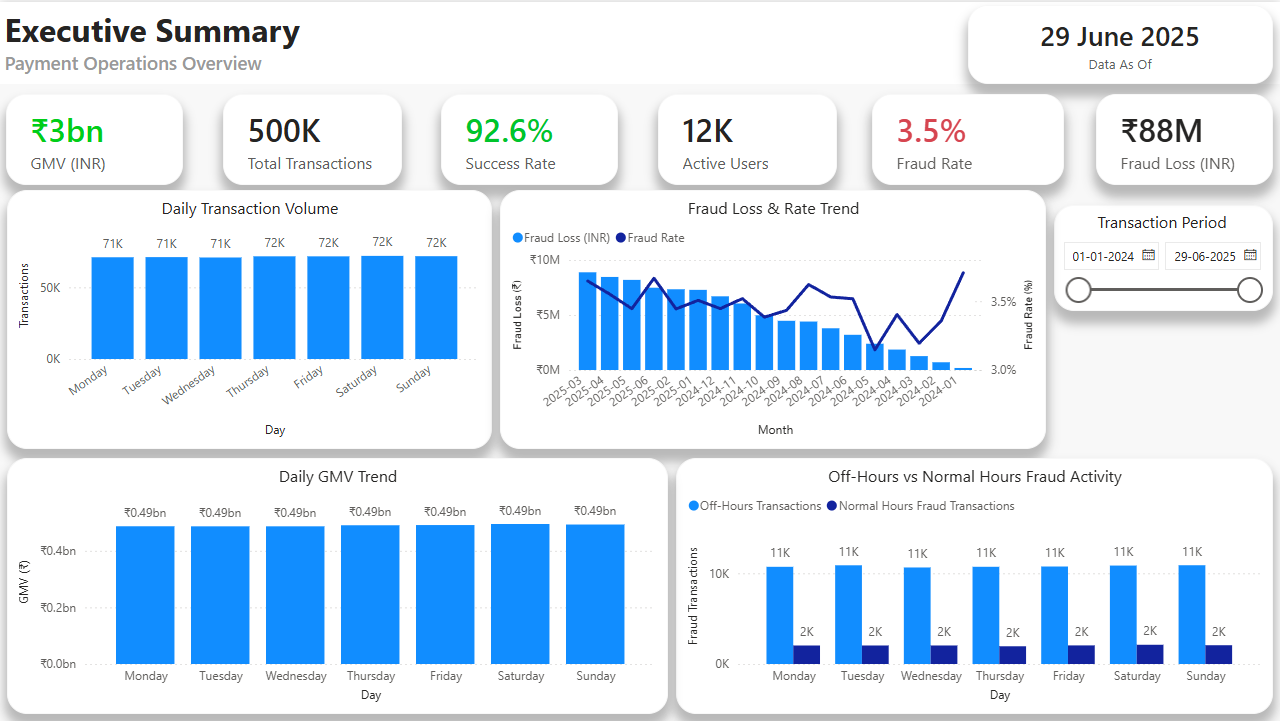
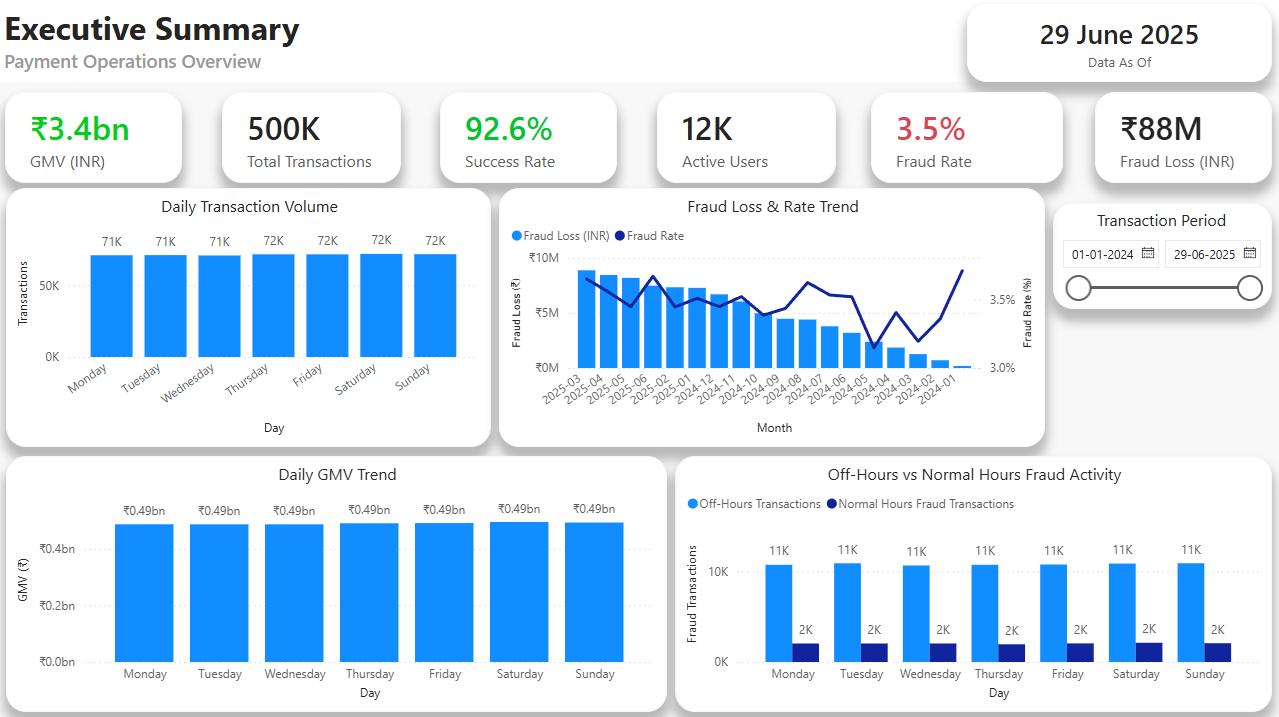
docs: align GMV to ₹3.4Bn and mark GitHub Actions CI complete in README

diff --git a/README.md b/README.md
@@ -54,7 +54,7 @@ Payment platforms bleed revenue when teams **cannot agree on the numbers** - fra
 
 | Pain today | What this platform delivers |
 |------------|----------------------------|
-| No single source of truth for GMV, success, or fraud loss | Locked KPIs on one star schema - Fraud ~**3.5%** · Success ~**92.6%** · Loss ~**₹88M** |
+| No single source of truth for GMV, success, or fraud loss | Locked KPIs on one star schema - GMV **₹3.4Bn** · Fraud ~**3.5%** · Success ~**92.6%** · Loss ~**₹88M** |
 | Fraud ops blind to hour and category concentration | Off-hours (1-5 AM) and Travel/Electronics risk on Page 03 + `hourly_fraud_trends` |
 | Merchant reviews biased by tiny sample sizes | `is_rate_reliable` guardrail before Top N on Page 04 |
 | No prioritised velocity worklist | `action_required` queue on Page 06 from `velocity_anomaly_detection` |
@@ -82,7 +82,7 @@ Power BI dashboard (Import mode from PostgreSQL).
 ### Dashboard Pages
 
 #### Page 01 - Executive Summary
-KPI cards: **~500K transactions** · **~92.6% success rate** · **~3.5% fraud rate** · **~₹88M fraud loss** · GMV validation vs `daily_overview_kpis`. Month-over-month GMV and volume trends.
+KPI cards: **~500K transactions** · **₹3.4Bn GMV** · **~92.6% success rate** · **~3.5% fraud rate** · **~₹88M fraud loss** · GMV validation vs `daily_overview_kpis`. Month-over-month GMV and volume trends.
 
 ![Page 01 Executive Summary](dashboard/screenshots/01_Executive_Summary.png)
 
@@ -120,7 +120,7 @@ Headline findings, prioritised actions (off-hours monitoring, merchant review, v
 
 ## Key Business Insights
 
-1. **~₹88M fraud loss at ~3.5% fraud rate** - fraud is a material drag on a **~₹3.67B GMV** base (~2.4% fraud-loss-to-GMV ratio). Executive KPIs reconcile between `fct_transactions` and `daily_overview_kpis` on Page 01.
+1. **~₹88M fraud loss at ~3.5% fraud rate** - fraud is a material drag on a **₹3.4Bn GMV** base (~2.6% fraud-loss-to-GMV ratio). Executive KPIs reconcile between `fct_transactions` and `daily_overview_kpis` on Page 01.
 
 2. **Off-hours fraud is structurally higher (1-5 AM)** - `is_odd_hour` and `hourly_fraud_trends` justify tightening overnight monitoring rules and staffing fraud ops for the early-morning window.
 
@@ -199,7 +199,7 @@ flowchart TB
 | Ingestion tests | pytest (`make pytest`) - raw CSV + `raw.*` tables |
 | Warehouse tests | dbt schema tests (`make test`) - staging → marts |
 | Orchestration | **Not wired yet** |
-| CI/CD | **Not wired yet** |
+| CI/CD | GitHub Actions - unit tests + E2E (`ingest` · `pytest` · `dbt`) on push/PR to `main` |
 | Analysis | Jupyter, pandas, plotly |
 
 ---
@@ -218,6 +218,7 @@ payment-transaction-analytics-platform/
 ├── notebooks/             # EDA notebooks (warehouse + fraud + segments)
 ├── tests/                 # pytest — ingestion / raw layer only
 ├── pytest.ini             # pytest config (testpaths, pythonpath)
+├── .github/workflows/     # GitHub Actions CI (unit + E2E pipeline)
 ├── docker-compose.yml     # PostgreSQL
 ├── Makefile              
 └── requirements.txt
@@ -374,7 +375,7 @@ This repo includes **platform documentation** under [`docs/`](docs/):
 | Phase 5 | Power BI dashboard - 7 pages, star schema, DAX measures | ✅ Complete |
 | Phase 6 | Analytics platform documentation | ✅ Complete |
 | Phase 7 | Workflow orchestration (Prefect / Airflow) + job scheduling | 🔲 Planned |
-| Phase 8 | CI/CD — GitHub Actions (`make pytest` + `make test` on push) | 🔲 Planned |
+| Phase 8 | CI/CD — GitHub Actions (`make pytest` + `make test` on push) | ✅ Complete |
 
 ---
 

diff --git a/docs/initial_observation.md b/docs/initial_observation.md
@@ -13,7 +13,7 @@
 
 ~500k synthetic payments (Jan 2024–Jun 2025) support fraud, merchant risk, velocity, and segment analytics.
 
-**Baselines:** Fraud Rate ~**3.5%** · Success Rate ~**92.6%** · Fraud Loss ~**₹88M**
+**Baselines:** GMV **₹3.4Bn** · Fraud Rate ~**3.5%** · Success Rate ~**92.6%** · Fraud Loss ~**₹88M**
 
 **Actions:** Monitor 1–5 AM · review Travel/Electronics merchants · action `action_required` on velocity queue · rank merchants only when `is_rate_reliable`.
 
@@ -102,7 +102,7 @@ flowchart LR
 
 1. Stationary success/failure rates over 18 months  
 2. Flat cohort retention—warehouse only, not trend chart  
-3. Headline KPIs locked: Fraud Rate ~3.5% · Success Rate ~92.6% · Fraud Loss ~₹88M  
+3. Headline KPIs locked: GMV ₹3.4Bn · Fraud Rate ~3.5% · Success Rate ~92.6% · Fraud Loss ~₹88M
 4. Rare `disputed` status  
 5. Payments-only—no marketing / clickstream feeds  
 

diff --git a/docs/kpi_definitions.md b/docs/kpi_definitions.md
@@ -14,7 +14,7 @@
 Single source of truth for **business metric definitions** consumed by Power BI, Excel, and **`reporting.*` SQL views**. This file must be used before making dashboard metrics or writing warehouse SQL - inconsistent definitions are the main cause of stakeholder distrust.
 
 
-**Baseline (locked):** Fraud Rate ~**3.5%** · Success Rate ~**92.6%** · Fraud Loss ~**₹88M**
+**Baseline (locked):** GMV **₹3.4Bn** · Fraud Rate ~**3.5%** · Success Rate ~**92.6%** · Fraud Loss ~**₹88M** · Fraud Loss Rate ~**2.6% of GMV**
 
 ---
 
@@ -66,7 +66,7 @@ Single source of truth for **business metric definitions** consumed by Power BI,
 | **Avg Fraud Risk Score** | Mean composite risk score | `AVERAGE(fraud_risk_score)` | `marts.fct_transactions` |
 | **Hourly Fraud Rate** | Pre-aggregated fraud rate by hour × category | `fraud_rate_pct / 100` | `marts.hourly_fraud_trends` |
 
-**Validated baselines:** Fraud Rate ~**3.5%** · Success Rate ~**92.6%** · Fraud Loss ~**₹88M** · Fraud Loss Rate ~**2.4% of GMV**
+**Validated baselines:** GMV **₹3.4Bn** · Fraud Rate ~**3.5%** · Success Rate ~**92.6%** · Fraud Loss ~**₹88M** · Fraud Loss Rate ~**2.6% of GMV**
 
 ---
 

diff --git a/docs/problem_statement.md b/docs/problem_statement.md
@@ -13,7 +13,7 @@
 
 Fraud and risk detected late-or measured inconsistently-cost payments platforms revenue and trust. This project delivers a **governed PostgreSQL + dbt + Power BI stack** on ~500k synthetic Indian payments so every team shares **one KPI set**.
 
-**Baselines:** Fraud Rate ~**3.5%** · Success Rate ~**92.6%** · Fraud Loss ~**₹88M**
+**Baselines:** GMV **₹3.4Bn** · Fraud Rate ~**3.5%** · Success Rate ~**92.6%** · Fraud Loss ~**₹88M**
 
 ---
 
@@ -141,7 +141,7 @@ Generator: [`generator/transaction_generator.py`](../generator/transaction_gener
 |-----------|--------|--------|
 | Pipeline runs end-to-end | `make pipeline` without errors | Met |
 | dbt tests | 81/81 PASS | Met |
-| Headline KPI baselines | Fraud Rate ~3.5% · Success Rate ~92.6% · Fraud Loss ~₹88M | Met |
+| Headline KPI baselines | GMV ₹3.4Bn · Fraud Rate ~3.5% · Success Rate ~92.6% · Fraud Loss ~₹88M | Met |
 | Dashboard pages | 7 pages with screenshots | Met |
 | Metric documentation | `kpi_definitions.md` + dictionaries | Met |
 | Known limitations documented | Page 07 + `initial_observation.md` | Met |

diff --git a/docs/README.md b/docs/README.md
@@ -108,7 +108,7 @@ make refresh     # reset + ingest + pipeline
 
 - Raw CSVs in `data/raw/` are **gitignored** - run `make ingest` after clone.
 - `.pbix` files are **gitignored** - portfolio preview via screenshots only.
-- **Locked headline KPIs:** Fraud Rate ~**3.5%** · Success Rate ~**92.6%** · Fraud Loss ~**₹88M** (generator calibrated; do not change without `make refresh` + re-validation).
+- **Locked headline KPIs:** GMV **₹3.4Bn** · Fraud Rate ~**3.5%** · Success Rate ~**92.6%** · Fraud Loss ~**₹88M** (generator calibrated; do not change without `make refresh` + re-validation).
 - Do not run `make refresh` unless intentionally recalibrating - dashboard validated on current baseline.
 - `reporting.*` views intentionally use schema prefixes - see `sql/deploy_views.py`.
 

diff --git a/docs/raw_data_dictionary.md b/docs/raw_data_dictionary.md
@@ -192,7 +192,7 @@ make refresh
 ## 7. Data Quality Notes
 
 - CSV files are **not committed** to Git (`.gitignore`). Regenerate after clone.
-- `is_fraud` is **synthetic ground truth** from the generator - calibrated to headline KPIs: Fraud Rate ~**3.5%**, Success Rate ~**92.6%**, Fraud Loss ~**₹88M**.
+- `is_fraud` is **synthetic ground truth** from the generator - calibrated to headline KPIs: GMV **₹3.4Bn**, Fraud Rate ~**3.5%**, Success Rate ~**92.6%**, Fraud Loss ~**₹88M**.
 - `merchant_category` on transactions is **denormalized by design** - preserves category at txn time.
 - `transaction_ts` is proper TIMESTAMP in raw - no VARCHAR-to-timestamp casting required at staging.
 - Fraud burst logic and user segments in the generator create **realistic heterogeneity** but **limited MoM trend variation**.